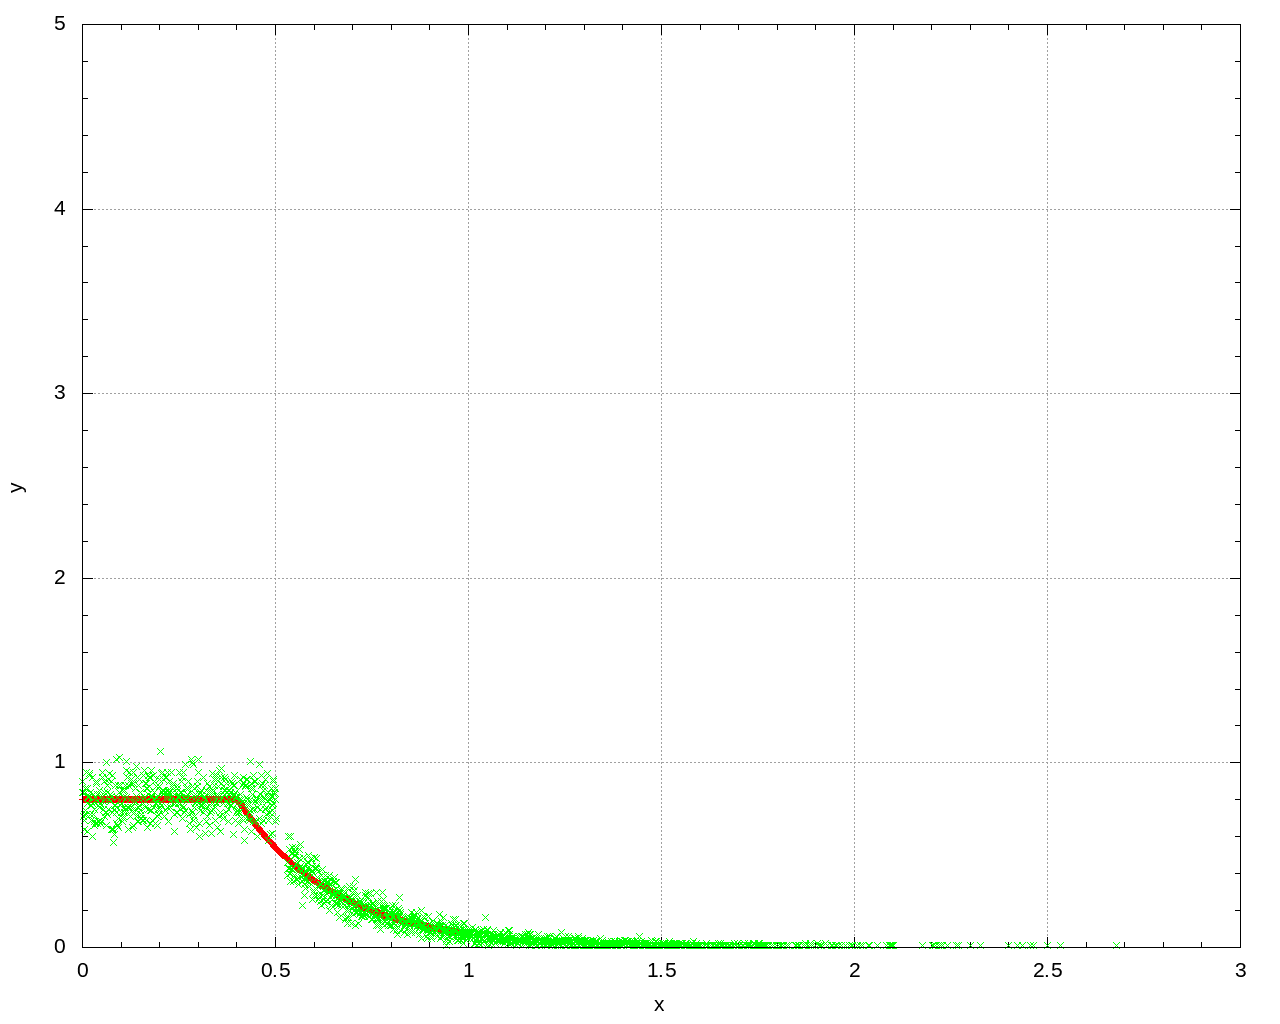
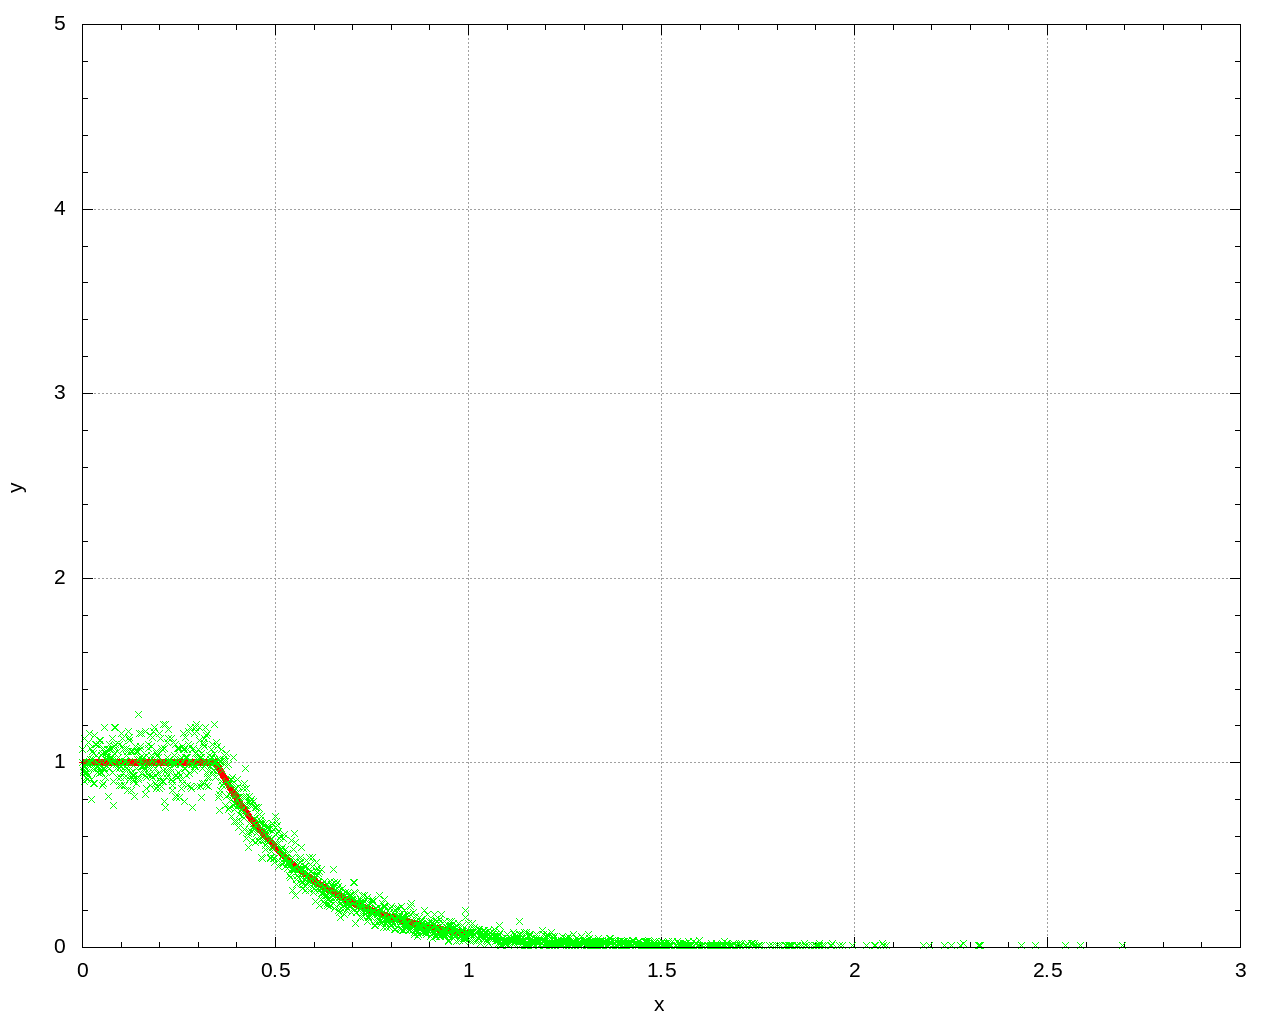
-

Changed region(s): [[0.0625, 0.7188, 0.4688, 0.9375], [0.625, 0.9062, 0.6562, 0.9375]]

diff --git a/MG/Lab-1/main.c b/MG/Lab-1/main.c
@@ -10,7 +10,7 @@
 #define ln log
 
 const double e = 2.71828182890459027;
-const double a = 0.8;
+const double a = 1.0;
 /*
  * Task
  * a      | [0; a_x]
